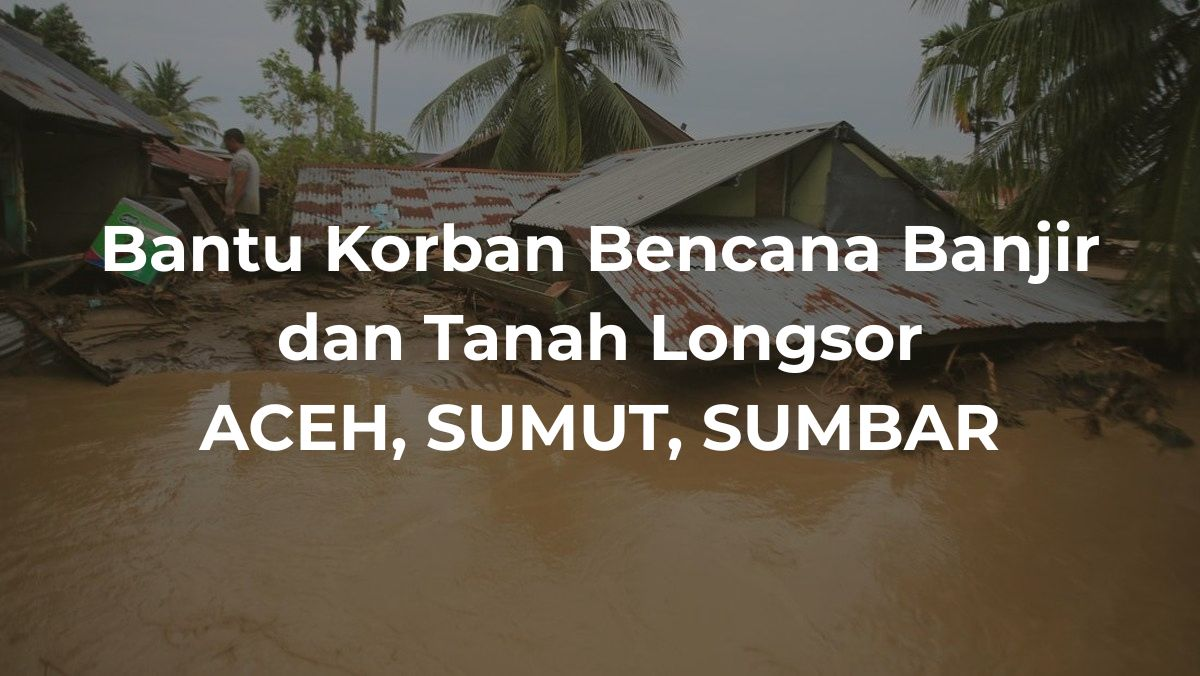
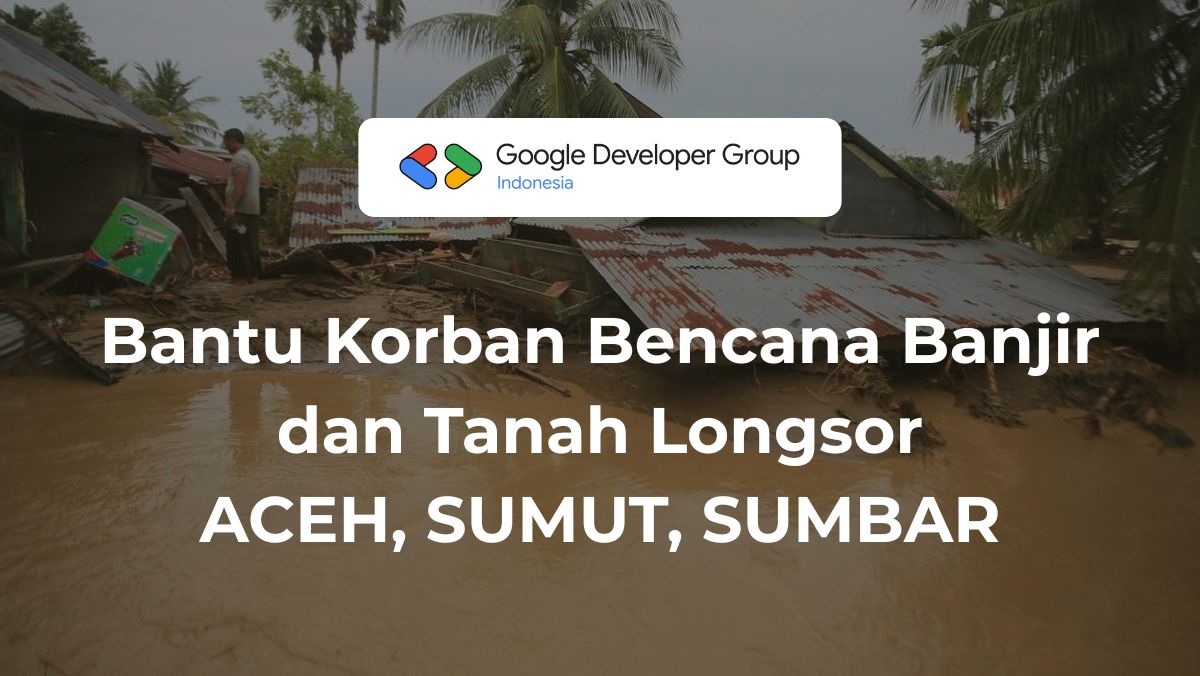
Update About and Legal pages with community information and styling enhancements
- Add a new section to the About page highlighting Google Developer Groups (GDG) across Indonesia, including links to their Instagram profiles.
- Update the Legal page to include improved logo styling for better responsiveness.
- Introduce new CSS styles for the GDG list to enhance layout and interactivity.

Changed region(s): [[0.0617, 0.1553, 0.925, 0.4349], [0.1542, 0.5902, 0.8325, 0.8077], [0.0617, 0.466, 0.925, 0.5592]]

diff --git a/public/about.html b/public/about.html
@@ -13,7 +13,7 @@
    <header class="page-header">
     <div class="logo-container">
      <a href="/">
-      <img src="/logo.png" alt="GDG Indonesia Logo" class="logo" />
+      <img src="/logo.png" alt="GDG Indonesia Logo" class="logo" style="width: 300px; height: auto; max-width: 100%;" />
      </a>
     </div>
     <h1>Tentang Kami</h1>
@@ -70,6 +70,123 @@
      <p>
       Kami berkomitmen untuk terus mengembangkan platform ini agar dapat
       memberikan manfaat yang lebih besar bagi masyarakat.
+     </p>
+    </div>
+
+    <div class="content-card">
+     <h2>Komunitas GDG Indonesia</h2>
+     <p>
+      Platform ini didukung oleh komunitas Google Developer Group (GDG) di seluruh Indonesia:
+     </p>
+     <ul class="gdg-list">
+      <li>
+       <span>Google Developer Group Medan</span>
+       <a href="https://www.instagram.com/gdg.medan/" target="_blank" rel="noopener noreferrer" class="gdg-instagram-link" aria-label="Instagram GDG Medan">
+        <svg class="instagram-icon" viewBox="0 0 24 24" fill="currentColor" xmlns="http://www.w3.org/2000/svg">
+         <path d="M12 2.163c3.204 0 3.584.012 4.85.07 3.252.148 4.771 1.691 4.919 4.919.058 1.265.069 1.645.069 4.849 0 3.205-.012 3.584-.069 4.849-.149 3.225-1.664 4.771-4.919 4.919-1.266.058-1.644.07-4.85.07-3.204 0-3.584-.012-4.849-.07-3.26-.149-4.771-1.699-4.919-4.92-.058-1.265-.07-1.644-.07-4.849 0-3.204.013-3.583.07-4.849.149-3.227 1.664-4.771 4.919-4.919 1.266-.057 1.645-.069 4.849-.069zm0-2.163c-3.259 0-3.667.014-4.947.072-4.358.2-6.78 2.618-6.98 6.98-.059 1.281-.073 1.689-.073 4.948 0 3.259.014 3.668.072 4.948.2 4.358 2.618 6.78 6.98 6.98 1.281.058 1.689.072 4.948.072 3.259 0 3.668-.014 4.948-.072 4.354-.2 6.782-2.618 6.979-6.98.059-1.28.073-1.689.073-4.948 0-3.259-.014-3.667-.072-4.947-.196-4.354-2.617-6.78-6.979-6.98-1.281-.059-1.69-.073-4.949-.073zm0 5.838c-3.403 0-6.162 2.759-6.162 6.162s2.759 6.163 6.162 6.163 6.162-2.759 6.162-6.163c0-3.403-2.759-6.162-6.162-6.162zm0 10.162c-2.209 0-4-1.79-4-4 0-2.209 1.791-4 4-4s4 1.791 4 4c0 2.21-1.791 4-4 4zm6.406-11.845c-.796 0-1.441.645-1.441 1.44s.645 1.44 1.441 1.44c.795 0 1.439-.645 1.439-1.44s-.644-1.44-1.439-1.44z"/>
+        </svg>
+       </a>
+      </li>
+      <li>
+       <span>Google Developer Group Bogor</span>
+       <a href="https://www.instagram.com/gdgbogor/" target="_blank" rel="noopener noreferrer" class="gdg-instagram-link" aria-label="Instagram GDG Bogor">
+        <svg class="instagram-icon" viewBox="0 0 24 24" fill="currentColor" xmlns="http://www.w3.org/2000/svg">
+         <path d="M12 2.163c3.204 0 3.584.012 4.85.07 3.252.148 4.771 1.691 4.919 4.919.058 1.265.069 1.645.069 4.849 0 3.205-.012 3.584-.069 4.849-.149 3.225-1.664 4.771-4.919 4.919-1.266.058-1.644.07-4.85.07-3.204 0-3.584-.012-4.849-.07-3.26-.149-4.771-1.699-4.919-4.92-.058-1.265-.07-1.644-.07-4.849 0-3.204.013-3.583.07-4.849.149-3.227 1.664-4.771 4.919-4.919 1.266-.057 1.645-.069 4.849-.069zm0-2.163c-3.259 0-3.667.014-4.947.072-4.358.2-6.78 2.618-6.98 6.98-.059 1.281-.073 1.689-.073 4.948 0 3.259.014 3.668.072 4.948.2 4.358 2.618 6.78 6.98 6.98 1.281.058 1.689.072 4.948.072 3.259 0 3.668-.014 4.948-.072 4.354-.2 6.782-2.618 6.979-6.98.059-1.28.073-1.689.073-4.948 0-3.259-.014-3.667-.072-4.947-.196-4.354-2.617-6.78-6.979-6.98-1.281-.059-1.69-.073-4.949-.073zm0 5.838c-3.403 0-6.162 2.759-6.162 6.162s2.759 6.163 6.162 6.163 6.162-2.759 6.162-6.163c0-3.403-2.759-6.162-6.162-6.162zm0 10.162c-2.209 0-4-1.79-4-4 0-2.209 1.791-4 4-4s4 1.791 4 4c0 2.21-1.791 4-4 4zm6.406-11.845c-.796 0-1.441.645-1.441 1.44s.645 1.44 1.441 1.44c.795 0 1.439-.645 1.439-1.44s-.644-1.44-1.439-1.44z"/>
+        </svg>
+       </a>
+      </li>
+      <li>
+       <span>Google Developer Group Jakarta</span>
+       <a href="https://www.instagram.com/gdgjakarta/" target="_blank" rel="noopener noreferrer" class="gdg-instagram-link" aria-label="Instagram GDG Jakarta">
+        <svg class="instagram-icon" viewBox="0 0 24 24" fill="currentColor" xmlns="http://www.w3.org/2000/svg">
+         <path d="M12 2.163c3.204 0 3.584.012 4.85.07 3.252.148 4.771 1.691 4.919 4.919.058 1.265.069 1.645.069 4.849 0 3.205-.012 3.584-.069 4.849-.149 3.225-1.664 4.771-4.919 4.919-1.266.058-1.644.07-4.85.07-3.204 0-3.584-.012-4.849-.07-3.26-.149-4.771-1.699-4.919-4.92-.058-1.265-.07-1.644-.07-4.849 0-3.204.013-3.583.07-4.849.149-3.227 1.664-4.771 4.919-4.919 1.266-.057 1.645-.069 4.849-.069zm0-2.163c-3.259 0-3.667.014-4.947.072-4.358.2-6.78 2.618-6.98 6.98-.059 1.281-.073 1.689-.073 4.948 0 3.259.014 3.668.072 4.948.2 4.358 2.618 6.78 6.98 6.98 1.281.058 1.689.072 4.948.072 3.259 0 3.668-.014 4.948-.072 4.354-.2 6.782-2.618 6.979-6.98.059-1.28.073-1.689.073-4.948 0-3.259-.014-3.667-.072-4.947-.196-4.354-2.617-6.78-6.979-6.98-1.281-.059-1.69-.073-4.949-.073zm0 5.838c-3.403 0-6.162 2.759-6.162 6.162s2.759 6.163 6.162 6.163 6.162-2.759 6.162-6.163c0-3.403-2.759-6.162-6.162-6.162zm0 10.162c-2.209 0-4-1.79-4-4 0-2.209 1.791-4 4-4s4 1.791 4 4c0 2.21-1.791 4-4 4zm6.406-11.845c-.796 0-1.441.645-1.441 1.44s.645 1.44 1.441 1.44c.795 0 1.439-.645 1.439-1.44s-.644-1.44-1.439-1.44z"/>
+        </svg>
+       </a>
+      </li>
+      <li>
+       <span>Google Developer Group Depok</span>
+       <a href="https://www.instagram.com/gdgdepok/" target="_blank" rel="noopener noreferrer" class="gdg-instagram-link" aria-label="Instagram GDG Depok">
+        <svg class="instagram-icon" viewBox="0 0 24 24" fill="currentColor" xmlns="http://www.w3.org/2000/svg">
+         <path d="M12 2.163c3.204 0 3.584.012 4.85.07 3.252.148 4.771 1.691 4.919 4.919.058 1.265.069 1.645.069 4.849 0 3.205-.012 3.584-.069 4.849-.149 3.225-1.664 4.771-4.919 4.919-1.266.058-1.644.07-4.85.07-3.204 0-3.584-.012-4.849-.07-3.26-.149-4.771-1.699-4.919-4.92-.058-1.265-.07-1.644-.07-4.849 0-3.204.013-3.583.07-4.849.149-3.227 1.664-4.771 4.919-4.919 1.266-.057 1.645-.069 4.849-.069zm0-2.163c-3.259 0-3.667.014-4.947.072-4.358.2-6.78 2.618-6.98 6.98-.059 1.281-.073 1.689-.073 4.948 0 3.259.014 3.668.072 4.948.2 4.358 2.618 6.78 6.98 6.98 1.281.058 1.689.072 4.948.072 3.259 0 3.668-.014 4.948-.072 4.354-.2 6.782-2.618 6.979-6.98.059-1.28.073-1.689.073-4.948 0-3.259-.014-3.667-.072-4.947-.196-4.354-2.617-6.78-6.979-6.98-1.281-.059-1.69-.073-4.949-.073zm0 5.838c-3.403 0-6.162 2.759-6.162 6.162s2.759 6.163 6.162 6.163 6.162-2.759 6.162-6.163c0-3.403-2.759-6.162-6.162-6.162zm0 10.162c-2.209 0-4-1.79-4-4 0-2.209 1.791-4 4-4s4 1.791 4 4c0 2.21-1.791 4-4 4zm6.406-11.845c-.796 0-1.441.645-1.441 1.44s.645 1.44 1.441 1.44c.795 0 1.439-.645 1.439-1.44s-.644-1.44-1.439-1.44z"/>
+        </svg>
+       </a>
+      </li>
+      <li>
+       <span>Google Developer Group Bandung</span>
+       <a href="https://www.instagram.com/gdg_bandung/" target="_blank" rel="noopener noreferrer" class="gdg-instagram-link" aria-label="Instagram GDG Bandung">
+        <svg class="instagram-icon" viewBox="0 0 24 24" fill="currentColor" xmlns="http://www.w3.org/2000/svg">
+         <path d="M12 2.163c3.204 0 3.584.012 4.85.07 3.252.148 4.771 1.691 4.919 4.919.058 1.265.069 1.645.069 4.849 0 3.205-.012 3.584-.069 4.849-.149 3.225-1.664 4.771-4.919 4.919-1.266.058-1.644.07-4.85.07-3.204 0-3.584-.012-4.849-.07-3.26-.149-4.771-1.699-4.919-4.92-.058-1.265-.07-1.644-.07-4.849 0-3.204.013-3.583.07-4.849.149-3.227 1.664-4.771 4.919-4.919 1.266-.057 1.645-.069 4.849-.069zm0-2.163c-3.259 0-3.667.014-4.947.072-4.358.2-6.78 2.618-6.98 6.98-.059 1.281-.073 1.689-.073 4.948 0 3.259.014 3.668.072 4.948.2 4.358 2.618 6.78 6.98 6.98 1.281.058 1.689.072 4.948.072 3.259 0 3.668-.014 4.948-.072 4.354-.2 6.782-2.618 6.979-6.98.059-1.28.073-1.689.073-4.948 0-3.259-.014-3.667-.072-4.947-.196-4.354-2.617-6.78-6.979-6.98-1.281-.059-1.69-.073-4.949-.073zm0 5.838c-3.403 0-6.162 2.759-6.162 6.162s2.759 6.163 6.162 6.163 6.162-2.759 6.162-6.163c0-3.403-2.759-6.162-6.162-6.162zm0 10.162c-2.209 0-4-1.79-4-4 0-2.209 1.791-4 4-4s4 1.791 4 4c0 2.21-1.791 4-4 4zm6.406-11.845c-.796 0-1.441.645-1.441 1.44s.645 1.44 1.441 1.44c.795 0 1.439-.645 1.439-1.44s-.644-1.44-1.439-1.44z"/>
+        </svg>
+       </a>
+      </li>
+      <li>
+       <span>Google Developer Group Semarang</span>
+       <a href="https://www.instagram.com/gdg.semarang/" target="_blank" rel="noopener noreferrer" class="gdg-instagram-link" aria-label="Instagram GDG Semarang">
+        <svg class="instagram-icon" viewBox="0 0 24 24" fill="currentColor" xmlns="http://www.w3.org/2000/svg">
+         <path d="M12 2.163c3.204 0 3.584.012 4.85.07 3.252.148 4.771 1.691 4.919 4.919.058 1.265.069 1.645.069 4.849 0 3.205-.012 3.584-.069 4.849-.149 3.225-1.664 4.771-4.919 4.919-1.266.058-1.644.07-4.85.07-3.204 0-3.584-.012-4.849-.07-3.26-.149-4.771-1.699-4.919-4.92-.058-1.265-.07-1.644-.07-4.849 0-3.204.013-3.583.07-4.849.149-3.227 1.664-4.771 4.919-4.919 1.266-.057 1.645-.069 4.849-.069zm0-2.163c-3.259 0-3.667.014-4.947.072-4.358.2-6.78 2.618-6.98 6.98-.059 1.281-.073 1.689-.073 4.948 0 3.259.014 3.668.072 4.948.2 4.358 2.618 6.78 6.98 6.98 1.281.058 1.689.072 4.948.072 3.259 0 3.668-.014 4.948-.072 4.354-.2 6.782-2.618 6.979-6.98.059-1.28.073-1.689.073-4.948 0-3.259-.014-3.667-.072-4.947-.196-4.354-2.617-6.78-6.979-6.98-1.281-.059-1.69-.073-4.949-.073zm0 5.838c-3.403 0-6.162 2.759-6.162 6.162s2.759 6.163 6.162 6.163 6.162-2.759 6.162-6.163c0-3.403-2.759-6.162-6.162-6.162zm0 10.162c-2.209 0-4-1.79-4-4 0-2.209 1.791-4 4-4s4 1.791 4 4c0 2.21-1.791 4-4 4zm6.406-11.845c-.796 0-1.441.645-1.441 1.44s.645 1.44 1.441 1.44c.795 0 1.439-.645 1.439-1.44s-.644-1.44-1.439-1.44z"/>
+        </svg>
+       </a>
+      </li>
+      <li>
+       <span>Google Developer Group Jogjakarta</span>
+       <a href="https://www.instagram.com/gdgjogjakarta/" target="_blank" rel="noopener noreferrer" class="gdg-instagram-link" aria-label="Instagram GDG Jogjakarta">
+        <svg class="instagram-icon" viewBox="0 0 24 24" fill="currentColor" xmlns="http://www.w3.org/2000/svg">
+         <path d="M12 2.163c3.204 0 3.584.012 4.85.07 3.252.148 4.771 1.691 4.919 4.919.058 1.265.069 1.645.069 4.849 0 3.205-.012 3.584-.069 4.849-.149 3.225-1.664 4.771-4.919 4.919-1.266.058-1.644.07-4.85.07-3.204 0-3.584-.012-4.849-.07-3.26-.149-4.771-1.699-4.919-4.92-.058-1.265-.07-1.644-.07-4.849 0-3.204.013-3.583.07-4.849.149-3.227 1.664-4.771 4.919-4.919 1.266-.057 1.645-.069 4.849-.069zm0-2.163c-3.259 0-3.667.014-4.947.072-4.358.2-6.78 2.618-6.98 6.98-.059 1.281-.073 1.689-.073 4.948 0 3.259.014 3.668.072 4.948.2 4.358 2.618 6.78 6.98 6.98 1.281.058 1.689.072 4.948.072 3.259 0 3.668-.014 4.948-.072 4.354-.2 6.782-2.618 6.979-6.98.059-1.28.073-1.689.073-4.948 0-3.259-.014-3.667-.072-4.947-.196-4.354-2.617-6.78-6.979-6.98-1.281-.059-1.69-.073-4.949-.073zm0 5.838c-3.403 0-6.162 2.759-6.162 6.162s2.759 6.163 6.162 6.163 6.162-2.759 6.162-6.163c0-3.403-2.759-6.162-6.162-6.162zm0 10.162c-2.209 0-4-1.79-4-4 0-2.209 1.791-4 4-4s4 1.791 4 4c0 2.21-1.791 4-4 4zm6.406-11.845c-.796 0-1.441.645-1.441 1.44s.645 1.44 1.441 1.44c.795 0 1.439-.645 1.439-1.44s-.644-1.44-1.439-1.44z"/>
+        </svg>
+       </a>
+      </li>
+      <li>
+       <span>Google Developer Group Surabaya</span>
+       <a href="https://www.instagram.com/gdgsurabaya/" target="_blank" rel="noopener noreferrer" class="gdg-instagram-link" aria-label="Instagram GDG Surabaya">
+        <svg class="instagram-icon" viewBox="0 0 24 24" fill="currentColor" xmlns="http://www.w3.org/2000/svg">
+         <path d="M12 2.163c3.204 0 3.584.012 4.85.07 3.252.148 4.771 1.691 4.919 4.919.058 1.265.069 1.645.069 4.849 0 3.205-.012 3.584-.069 4.849-.149 3.225-1.664 4.771-4.919 4.919-1.266.058-1.644.07-4.85.07-3.204 0-3.584-.012-4.849-.07-3.26-.149-4.771-1.699-4.919-4.92-.058-1.265-.07-1.644-.07-4.849 0-3.204.013-3.583.07-4.849.149-3.227 1.664-4.771 4.919-4.919 1.266-.057 1.645-.069 4.849-.069zm0-2.163c-3.259 0-3.667.014-4.947.072-4.358.2-6.78 2.618-6.98 6.98-.059 1.281-.073 1.689-.073 4.948 0 3.259.014 3.668.072 4.948.2 4.358 2.618 6.78 6.98 6.98 1.281.058 1.689.072 4.948.072 3.259 0 3.668-.014 4.948-.072 4.354-.2 6.782-2.618 6.979-6.98.059-1.28.073-1.689.073-4.948 0-3.259-.014-3.667-.072-4.947-.196-4.354-2.617-6.78-6.979-6.98-1.281-.059-1.69-.073-4.949-.073zm0 5.838c-3.403 0-6.162 2.759-6.162 6.162s2.759 6.163 6.162 6.163 6.162-2.759 6.162-6.163c0-3.403-2.759-6.162-6.162-6.162zm0 10.162c-2.209 0-4-1.79-4-4 0-2.209 1.791-4 4-4s4 1.791 4 4c0 2.21-1.791 4-4 4zm6.406-11.845c-.796 0-1.441.645-1.441 1.44s.645 1.44 1.441 1.44c.795 0 1.439-.645 1.439-1.44s-.644-1.44-1.439-1.44z"/>
+        </svg>
+       </a>
+      </li>
+      <li>
+       <span>Google Developer Group Bali</span>
+       <a href="https://www.instagram.com/gdgbali/" target="_blank" rel="noopener noreferrer" class="gdg-instagram-link" aria-label="Instagram GDG Bali">
+        <svg class="instagram-icon" viewBox="0 0 24 24" fill="currentColor" xmlns="http://www.w3.org/2000/svg">
+         <path d="M12 2.163c3.204 0 3.584.012 4.85.07 3.252.148 4.771 1.691 4.919 4.919.058 1.265.069 1.645.069 4.849 0 3.205-.012 3.584-.069 4.849-.149 3.225-1.664 4.771-4.919 4.919-1.266.058-1.644.07-4.85.07-3.204 0-3.584-.012-4.849-.07-3.26-.149-4.771-1.699-4.919-4.92-.058-1.265-.07-1.644-.07-4.849 0-3.204.013-3.583.07-4.849.149-3.227 1.664-4.771 4.919-4.919 1.266-.057 1.645-.069 4.849-.069zm0-2.163c-3.259 0-3.667.014-4.947.072-4.358.2-6.78 2.618-6.98 6.98-.059 1.281-.073 1.689-.073 4.948 0 3.259.014 3.668.072 4.948.2 4.358 2.618 6.78 6.98 6.98 1.281.058 1.689.072 4.948.072 3.259 0 3.668-.014 4.948-.072 4.354-.2 6.782-2.618 6.979-6.98.059-1.28.073-1.689.073-4.948 0-3.259-.014-3.667-.072-4.947-.196-4.354-2.617-6.78-6.979-6.98-1.281-.059-1.69-.073-4.949-.073zm0 5.838c-3.403 0-6.162 2.759-6.162 6.162s2.759 6.163 6.162 6.163 6.162-2.759 6.162-6.163c0-3.403-2.759-6.162-6.162-6.162zm0 10.162c-2.209 0-4-1.79-4-4 0-2.209 1.791-4 4-4s4 1.791 4 4c0 2.21-1.791 4-4 4zm6.406-11.845c-.796 0-1.441.645-1.441 1.44s.645 1.44 1.441 1.44c.795 0 1.439-.645 1.439-1.44s-.644-1.44-1.439-1.44z"/>
+        </svg>
+       </a>
+      </li>
+      <li>
+       <span>Google Developer Group Makassar</span>
+       <a href="https://www.instagram.com/gdgmakassar/" target="_blank" rel="noopener noreferrer" class="gdg-instagram-link" aria-label="Instagram GDG Makassar">
+        <svg class="instagram-icon" viewBox="0 0 24 24" fill="currentColor" xmlns="http://www.w3.org/2000/svg">
+         <path d="M12 2.163c3.204 0 3.584.012 4.85.07 3.252.148 4.771 1.691 4.919 4.919.058 1.265.069 1.645.069 4.849 0 3.205-.012 3.584-.069 4.849-.149 3.225-1.664 4.771-4.919 4.919-1.266.058-1.644.07-4.85.07-3.204 0-3.584-.012-4.849-.07-3.26-.149-4.771-1.699-4.919-4.92-.058-1.265-.07-1.644-.07-4.849 0-3.204.013-3.583.07-4.849.149-3.227 1.664-4.771 4.919-4.919 1.266-.057 1.645-.069 4.849-.069zm0-2.163c-3.259 0-3.667.014-4.947.072-4.358.2-6.78 2.618-6.98 6.98-.059 1.281-.073 1.689-.073 4.948 0 3.259.014 3.668.072 4.948.2 4.358 2.618 6.78 6.98 6.98 1.281.058 1.689.072 4.948.072 3.259 0 3.668-.014 4.948-.072 4.354-.2 6.782-2.618 6.979-6.98.059-1.28.073-1.689.073-4.948 0-3.259-.014-3.667-.072-4.947-.196-4.354-2.617-6.78-6.979-6.98-1.281-.059-1.69-.073-4.949-.073zm0 5.838c-3.403 0-6.162 2.759-6.162 6.162s2.759 6.163 6.162 6.163 6.162-2.759 6.162-6.163c0-3.403-2.759-6.162-6.162-6.162zm0 10.162c-2.209 0-4-1.79-4-4 0-2.209 1.791-4 4-4s4 1.791 4 4c0 2.21-1.791 4-4 4zm6.406-11.845c-.796 0-1.441.645-1.441 1.44s.645 1.44 1.441 1.44c.795 0 1.439-.645 1.439-1.44s-.644-1.44-1.439-1.44z"/>
+        </svg>
+       </a>
+      </li>
+      <li>
+       <span>Google Developer Group Cloud Jakarta</span>
+       <a href="https://www.instagram.com/gdgcloudjakarta/" target="_blank" rel="noopener noreferrer" class="gdg-instagram-link" aria-label="Instagram GDG Cloud Jakarta">
+        <svg class="instagram-icon" viewBox="0 0 24 24" fill="currentColor" xmlns="http://www.w3.org/2000/svg">
+         <path d="M12 2.163c3.204 0 3.584.012 4.85.07 3.252.148 4.771 1.691 4.919 4.919.058 1.265.069 1.645.069 4.849 0 3.205-.012 3.584-.069 4.849-.149 3.225-1.664 4.771-4.919 4.919-1.266.058-1.644.07-4.85.07-3.204 0-3.584-.012-4.849-.07-3.26-.149-4.771-1.699-4.919-4.92-.058-1.265-.07-1.644-.07-4.849 0-3.204.013-3.583.07-4.849.149-3.227 1.664-4.771 4.919-4.919 1.266-.057 1.645-.069 4.849-.069zm0-2.163c-3.259 0-3.667.014-4.947.072-4.358.2-6.78 2.618-6.98 6.98-.059 1.281-.073 1.689-.073 4.948 0 3.259.014 3.668.072 4.948.2 4.358 2.618 6.78 6.98 6.98 1.281.058 1.689.072 4.948.072 3.259 0 3.668-.014 4.948-.072 4.354-.2 6.782-2.618 6.979-6.98.059-1.28.073-1.689.073-4.948 0-3.259-.014-3.667-.072-4.947-.196-4.354-2.617-6.78-6.979-6.98-1.281-.059-1.69-.073-4.949-.073zm0 5.838c-3.403 0-6.162 2.759-6.162 6.162s2.759 6.163 6.162 6.163 6.162-2.759 6.162-6.163c0-3.403-2.759-6.162-6.162-6.162zm0 10.162c-2.209 0-4-1.79-4-4 0-2.209 1.791-4 4-4s4 1.791 4 4c0 2.21-1.791 4-4 4zm6.406-11.845c-.796 0-1.441.645-1.441 1.44s.645 1.44 1.441 1.44c.795 0 1.439-.645 1.439-1.44s-.644-1.44-1.439-1.44z"/>
+        </svg>
+       </a>
+      </li>
+      <li>
+       <span>Google Developer Group Cloud Bandung</span>
+       <a href="https://www.instagram.com/gdgcloudbandung/" target="_blank" rel="noopener noreferrer" class="gdg-instagram-link" aria-label="Instagram GDG Cloud Bandung">
+        <svg class="instagram-icon" viewBox="0 0 24 24" fill="currentColor" xmlns="http://www.w3.org/2000/svg">
+         <path d="M12 2.163c3.204 0 3.584.012 4.85.07 3.252.148 4.771 1.691 4.919 4.919.058 1.265.069 1.645.069 4.849 0 3.205-.012 3.584-.069 4.849-.149 3.225-1.664 4.771-4.919 4.919-1.266.058-1.644.07-4.85.07-3.204 0-3.584-.012-4.849-.07-3.26-.149-4.771-1.699-4.919-4.92-.058-1.265-.07-1.644-.07-4.849 0-3.204.013-3.583.07-4.849.149-3.227 1.664-4.771 4.919-4.919 1.266-.057 1.645-.069 4.849-.069zm0-2.163c-3.259 0-3.667.014-4.947.072-4.358.2-6.78 2.618-6.98 6.98-.059 1.281-.073 1.689-.073 4.948 0 3.259.014 3.668.072 4.948.2 4.358 2.618 6.78 6.98 6.98 1.281.058 1.689.072 4.948.072 3.259 0 3.668-.014 4.948-.072 4.354-.2 6.782-2.618 6.979-6.98.059-1.28.073-1.689.073-4.948 0-3.259-.014-3.667-.072-4.947-.196-4.354-2.617-6.78-6.979-6.98-1.281-.059-1.69-.073-4.949-.073zm0 5.838c-3.403 0-6.162 2.759-6.162 6.162s2.759 6.163 6.162 6.163 6.162-2.759 6.162-6.163c0-3.403-2.759-6.162-6.162-6.162zm0 10.162c-2.209 0-4-1.79-4-4 0-2.209 1.791-4 4-4s4 1.791 4 4c0 2.21-1.791 4-4 4zm6.406-11.845c-.796 0-1.441.645-1.441 1.44s.645 1.44 1.441 1.44c.795 0 1.439-.645 1.439-1.44s-.644-1.44-1.439-1.44z"/>
+        </svg>
+       </a>
+      </li>
+      <li>
+       <span>Google Developer Group Cloud Surabaya</span>
+       <a href="https://www.instagram.com/gdgcloudsurabaya/" target="_blank" rel="noopener noreferrer" class="gdg-instagram-link" aria-label="Instagram GDG Cloud Surabaya">
+        <svg class="instagram-icon" viewBox="0 0 24 24" fill="currentColor" xmlns="http://www.w3.org/2000/svg">
+         <path d="M12 2.163c3.204 0 3.584.012 4.85.07 3.252.148 4.771 1.691 4.919 4.919.058 1.265.069 1.645.069 4.849 0 3.205-.012 3.584-.069 4.849-.149 3.225-1.664 4.771-4.919 4.919-1.266.058-1.644.07-4.85.07-3.204 0-3.584-.012-4.849-.07-3.26-.149-4.771-1.699-4.919-4.92-.058-1.265-.07-1.644-.07-4.849 0-3.204.013-3.583.07-4.849.149-3.227 1.664-4.771 4.919-4.919 1.266-.057 1.645-.069 4.849-.069zm0-2.163c-3.259 0-3.667.014-4.947.072-4.358.2-6.78 2.618-6.98 6.98-.059 1.281-.073 1.689-.073 4.948 0 3.259.014 3.668.072 4.948.2 4.358 2.618 6.78 6.98 6.98 1.281.058 1.689.072 4.948.072 3.259 0 3.668-.014 4.948-.072 4.354-.2 6.782-2.618 6.979-6.98.059-1.28.073-1.689.073-4.948 0-3.259-.014-3.667-.072-4.947-.196-4.354-2.617-6.78-6.979-6.98-1.281-.059-1.69-.073-4.949-.073zm0 5.838c-3.403 0-6.162 2.759-6.162 6.162s2.759 6.163 6.162 6.163 6.162-2.759 6.162-6.163c0-3.403-2.759-6.162-6.162-6.162zm0 10.162c-2.209 0-4-1.79-4-4 0-2.209 1.791-4 4-4s4 1.791 4 4c0 2.21-1.791 4-4 4zm6.406-11.845c-.796 0-1.441.645-1.441 1.44s.645 1.44 1.441 1.44c.795 0 1.439-.645 1.439-1.44s-.644-1.44-1.439-1.44z"/>
+        </svg>
+       </a>
+      </li>
+     </ul>
+     <p>
+      Kami mengucapkan terima kasih kepada semua komunitas GDG yang telah mendukung
+      dan berkontribusi dalam aksi kemanusiaan ini.
      </p>
     </div>
 

diff --git a/public/styles.css b/public/styles.css
@@ -1325,6 +1325,59 @@ body {
  margin-bottom: 10px;
 }
 
+.gdg-list {
+ display: grid;
+ grid-template-columns: repeat(auto-fit, minmax(250px, 1fr));
+ gap: 8px;
+ margin-top: 15px;
+ margin-bottom: 20px;
+}
+
+.gdg-list li {
+ padding: 10px 15px;
+ background: var(--bg-color);
+ border-radius: 6px;
+ border-left: 3px solid var(--primary-color);
+ transition: all 0.2s ease;
+ display: flex;
+ align-items: center;
+ justify-content: space-between;
+ gap: 12px;
+}
+
+.gdg-list li:hover {
+ background: #f0f4ff;
+ transform: translateX(5px);
+}
+
+.gdg-list li span {
+ flex: 1;
+}
+
+.gdg-instagram-link {
+ display: flex;
+ align-items: center;
+ justify-content: center;
+ width: 32px;
+ height: 32px;
+ border-radius: 6px;
+ background: linear-gradient(45deg, #f09433 0%, #e6683c 25%, #dc2743 50%, #cc2366 75%, #bc1888 100%);
+ color: white;
+ text-decoration: none;
+ transition: all 0.2s ease;
+ flex-shrink: 0;
+}
+
+.gdg-instagram-link:hover {
+ transform: scale(1.1);
+ box-shadow: 0 2px 8px rgba(188, 24, 136, 0.4);
+}
+
+.instagram-icon {
+ width: 18px;
+ height: 18px;
+}
+
 .content-card strong {
  color: var(--text-color);
  font-weight: 600;

diff --git a/public/legal.html b/public/legal.html
@@ -12,9 +12,10 @@
    <!-- Header -->
    <header class="page-header">
     <div class="logo-container">
-     <a href="/">
-      <img src="/logo.png" alt="GDG Indonesia Logo" class="logo" />
-     </a>
+        <a href="/">
+            <img src="/logo.png" alt="GDG Indonesia Logo" class="logo" style="width: 300px; height: auto; max-width: 100%;" />
+           </a>
+      
     </div>
     <h1>Legal & Kebijakan</h1>
    </header>
@@ -188,7 +189,7 @@
     <div class="content-card">
      <p style="color: var(--text-light); font-size: 0.9rem;">
       <em
-       >Dokumen ini terakhir diperbarui pada: Januari 2025</em
+       >Dokumen ini terakhir diperbarui pada: Desember 2025</em
       >
      </p>
     </div>
